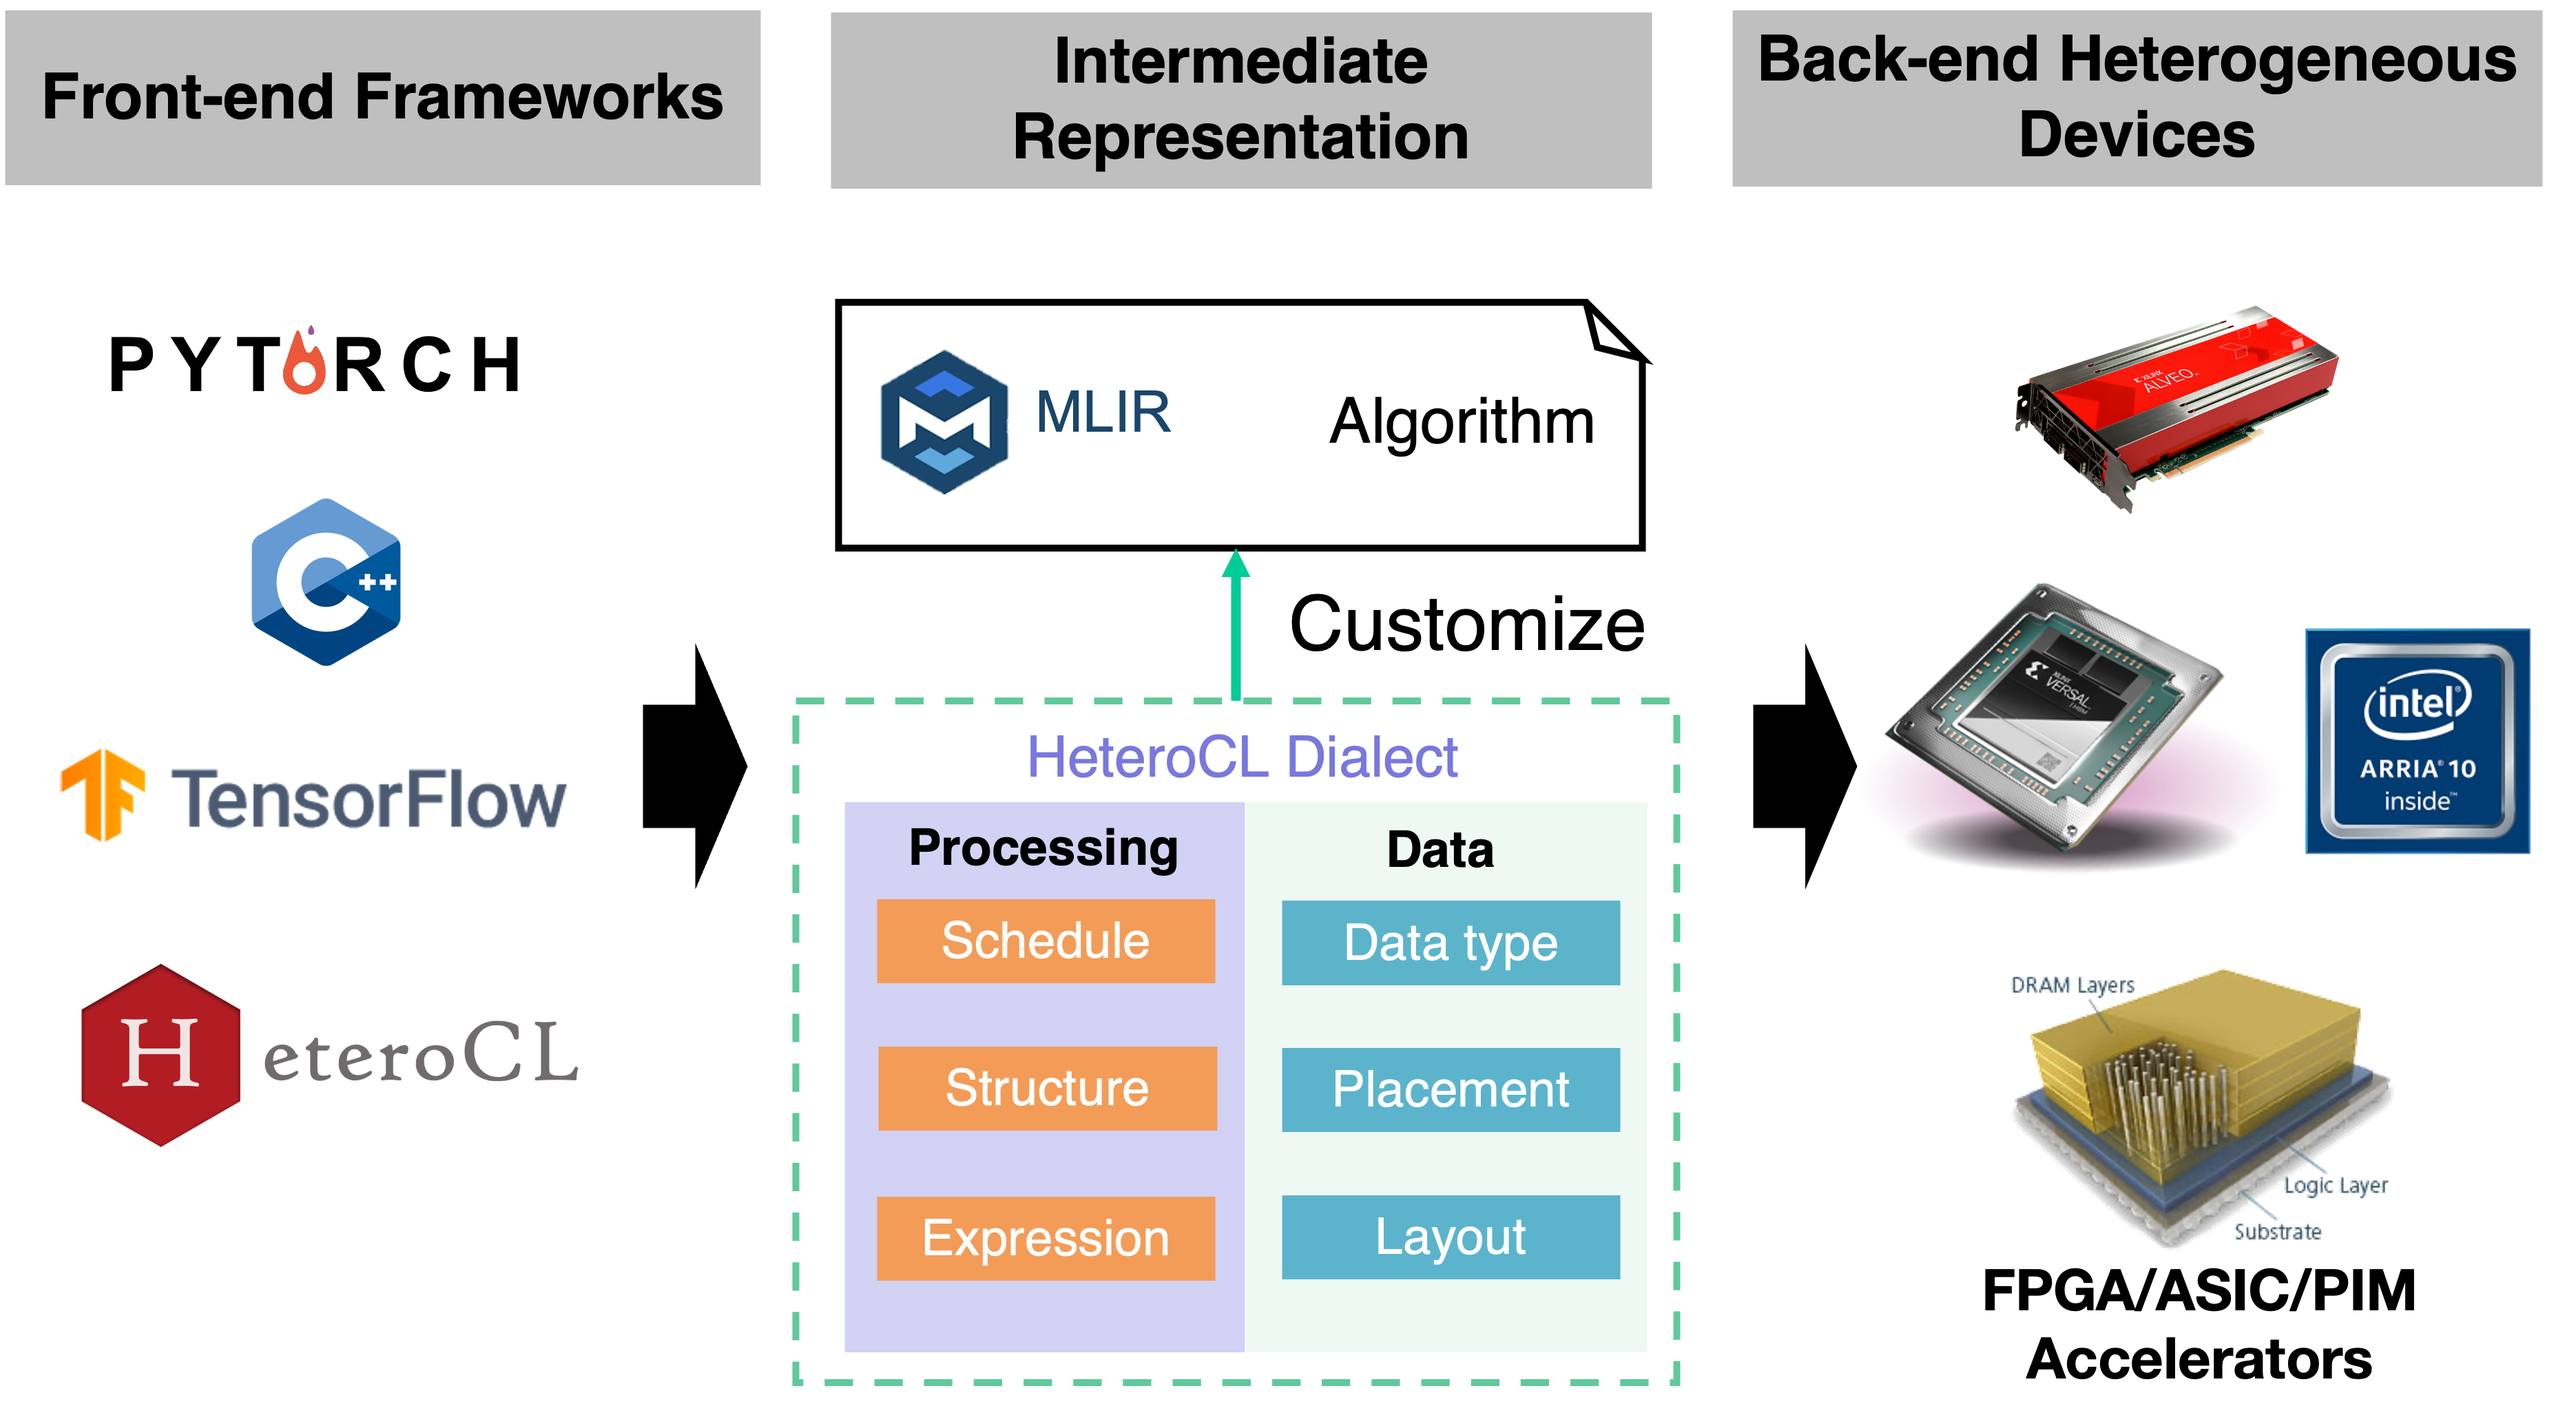
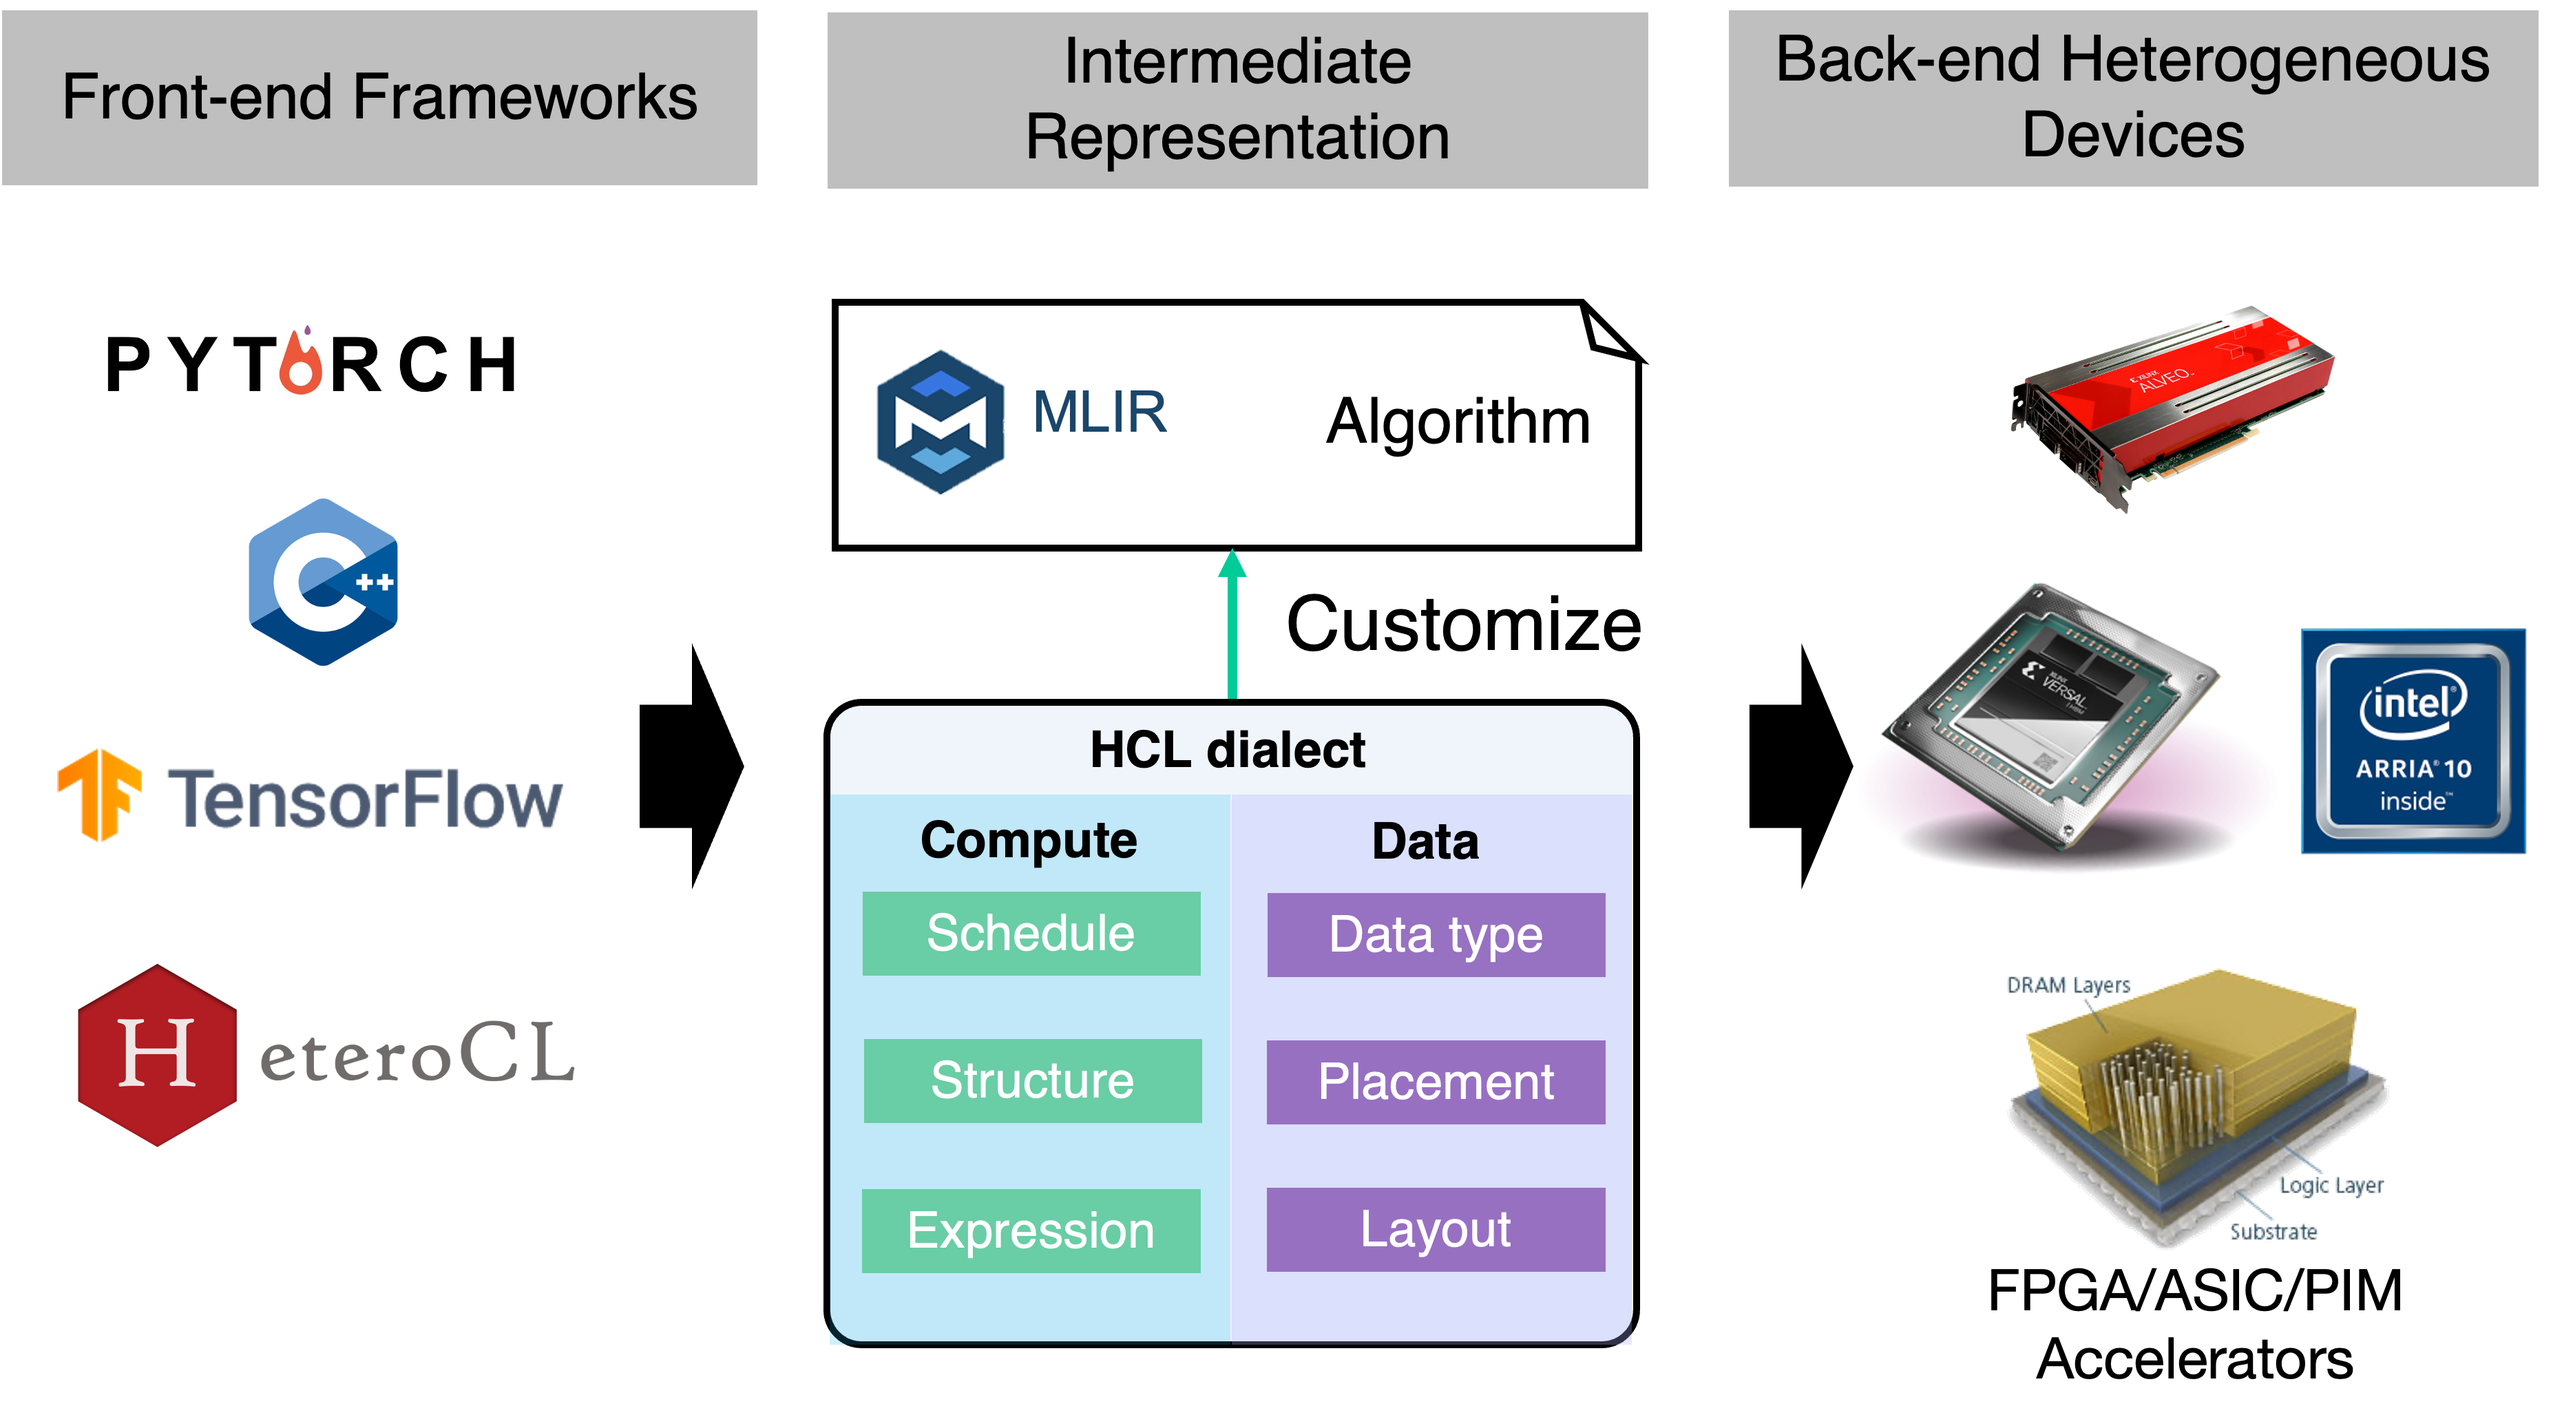
[Doc] Rename processing customization to compute customization (#487)
* [Doc] Update README and figure

* [Doc] Update language overview figure

* [Submodule] Update hcl-dialect submodule

diff --git a/README.md b/README.md
@@ -14,7 +14,7 @@ HeteroCL: A Multi-Paradigm Programming Infrastructure for Software-Defined Recon
 With the pursuit of improving compute performance under strict power constraints, there is an increasing need for deploying applications to heterogeneous hardware architectures with accelerators, such as GPUs and FPGAs. However, although these heterogeneous computing platforms are becoming widely available, they are very difficult to program especially with FPGAs. As a result, the use of such platforms has been limited to a small subset of programmers with specialized hardware knowledge.
 
 To tackle this challenge, we introduce HeteroCL, a programming infrastructure comprised of a Python-based domain-specific language (DSL) and a compilation flow. 
-The HeteroCL DSL provides a clean programming abstraction that decouples algorithm specification from hardware customizations including data and processing customizations. HeteroCL can further capture the interdependence among these different customization techniques, allowing programmers to explore various performance/area/accuracy trade-offs in a systematic and productive manner. 
+The HeteroCL DSL provides a clean programming abstraction that decouples algorithm specification from hardware customizations including compute and data customizations. HeteroCL can further capture the interdependence among these different customization techniques, allowing programmers to explore various performance/area/accuracy trade-offs in a systematic and productive manner. 
 <!-- In addition, our framework currently provides two advanced domain-specific optimizations with stencil analysis and systolic array generation, which produce highly efficient microarchitectures for accelerating popular workloads from image processing and deep learning domains. -->
 
 ## Language Overview
